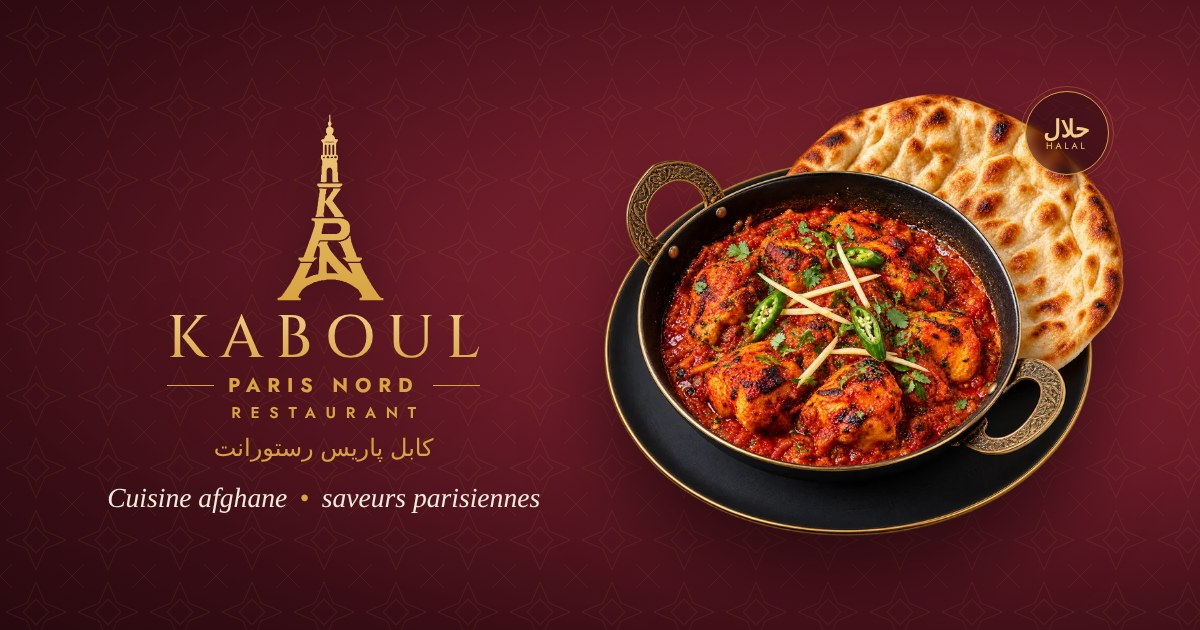
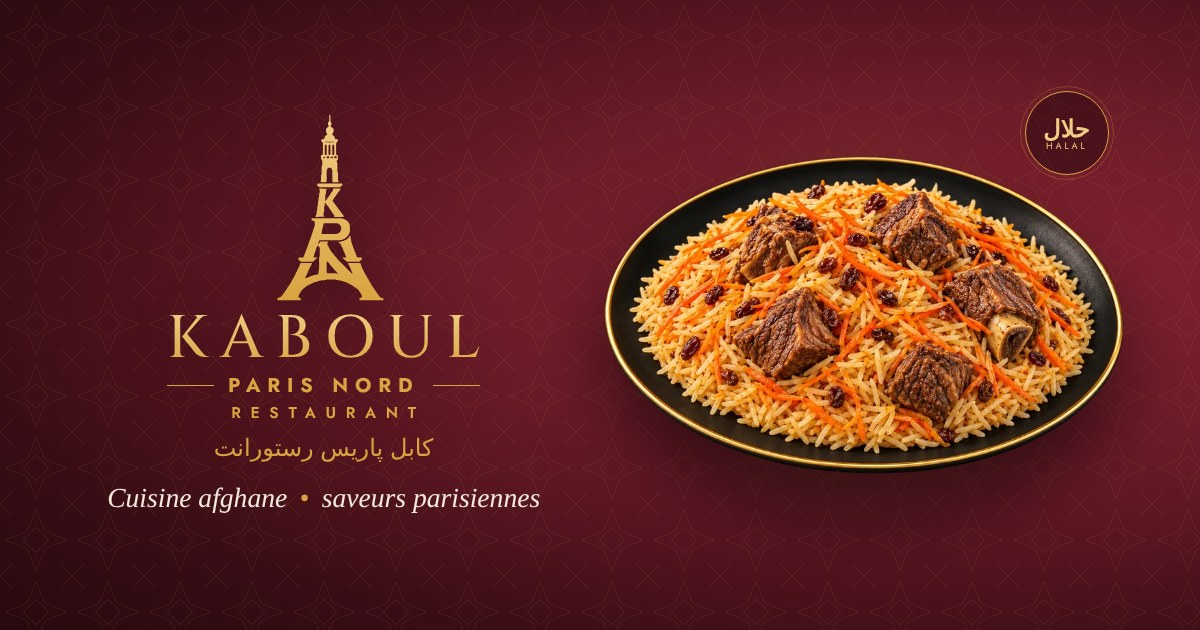
Kabuli palaw en premier : la spécialité de la maison
- Premier plat de l'accueil, de la carte et de l'image de partage
- Le badge « Notre spécialité » passe de l'assiette mixte au kabuli palaw

Claude-Session: https://claude.ai/code/session_017WVysqERD8GsLfZDzdbQ6X

Changed region(s): [[0.4933, 0.1508, 0.9558, 0.9048]]

diff --git a/js/data.js b/js/data.js
@@ -37,8 +37,8 @@ export const MENU = [
   {
     id: 'specialites', nom: 'Spécialités', titre: 'Les plats',
     items: [
-      { nom: 'Assiette mixte', prix: 14, img: P + 'assiette-mixte.webp', badge: 'Notre spécialité' },
-      { nom: 'Kabuli palaw', prix: 10, img: P + 'kabuli-palaw.webp' },
+      { nom: 'Kabuli palaw', prix: 10, img: P + 'kabuli-palaw.webp', badge: 'Notre spécialité' },
+      { nom: 'Assiette mixte', prix: 14, img: P + 'assiette-mixte.webp' },
       { nom: 'Mantou', prix: 10, img: P + 'mantou.webp' },
       { nom: 'Biryani', prix: 8, img: P + 'biryani.webp' },
       { nom: 'Assiette poulet kebab', prix: 9, img: P + 'assiette-poulet-kebab.webp' },
@@ -123,13 +123,13 @@ export const MENU = [
 // ─────────────────────────────────────────────────────────────
 
 // Plats qui défilent en haut de page (photos détourées uniquement).
-export const DEFILE = ['Karahi poulet tikka + naan', 'Kabuli palaw', 'Assiette mixte', 'Mantou', 'Poisson avec riz',
+export const DEFILE = ['Kabuli palaw', 'Karahi poulet tikka + naan', 'Assiette mixte', 'Mantou', 'Poisson avec riz',
                        '10 wings + frites & boisson 33cl', 'Naan fromage + 4 pièces poulet tikka'];
 
 // Les incontournables. ⚠ Textes de présentation à valider par le restaurant.
 export const VEDETTES = [
   {
-    plat: 'Kabuli palaw', sur: 'Le plat national afghan',
+    plat: 'Kabuli palaw', sur: 'Notre spécialité · le plat national afghan',
     texte: 'Un riz basmati parfumé, des carottes fondantes, des raisins secs et de généreux morceaux de viande. S’il ne fallait en goûter qu’un, ce serait celui-là.',
   },
   {

diff --git a/index.html b/index.html
@@ -23,8 +23,8 @@
 <link rel="preconnect" href="https://fonts.googleapis.com">
 <link rel="preconnect" href="https://fonts.gstatic.com" crossorigin>
 <link href="https://fonts.googleapis.com/css2?family=Cinzel:wght@500;600;700&family=Jost:wght@400;500;600;700&display=swap" rel="stylesheet">
-<link rel="preload" as="image" href="assets/img/plats/karahi-tikka.webp">
-<link rel="stylesheet" href="css/style.css?v=202611101612">
+<link rel="preload" as="image" href="assets/img/plats/kabuli-palaw.webp">
+<link rel="stylesheet" href="css/style.css?v=202611101642">
 </head>
 <body>
 <a class="evitement" href="#carte">Aller à la carte</a>
@@ -192,6 +192,6 @@
 <div class="toast" id="toast" role="status" aria-live="polite"></div>
 
 <noscript><p class="sans-js">Activez JavaScript pour afficher la carte du restaurant.</p></noscript>
-<script type="module" src="js/app.js?v=202611101612"></script>
+<script type="module" src="js/app.js?v=202611101642"></script>
 </body>
 </html>

diff --git a/js/app.js b/js/app.js
@@ -1,4 +1,4 @@
-import { CONFIG, MENU, DEFILE, VEDETTES, BONS_PLANS } from './data.js?v=202611101612';
+import { CONFIG, MENU, DEFILE, VEDETTES, BONS_PLANS } from './data.js?v=202611101642';
 
 // ───────── utilitaires ─────────
 const $ = (s, r = document) => r.querySelector(s);
